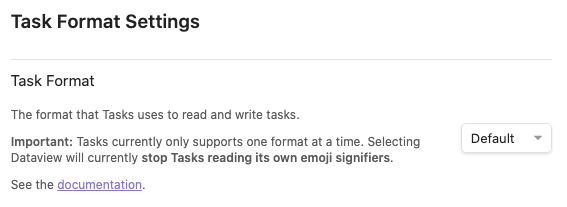
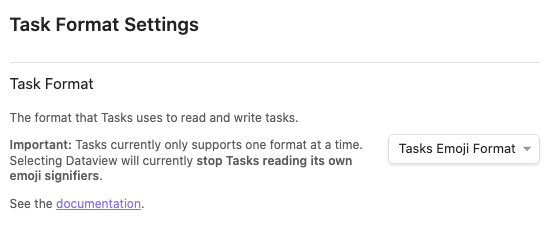
docs: Rename 'Default' format in settings to 'Tasks Emoji Format'

diff --git a/docs/Reference/Task Formats/About Task Formats.md b/docs/Reference/Task Formats/About Task Formats.md
@@ -17,7 +17,7 @@ You can now chose the format that Tasks will use to read and write data on task 
 
 ## Supported formats
 
-- [[Tasks Emoji Format]] - the Default format
+- [[Tasks Emoji Format]] - the default format
   - `⏫ 🔁 every day when done`
   - `🛫 2023-04-05 ⏳ 2023-04-06 📅 2023-04-07`
   - `➕ 2023-04-03 ✅ 2023-04-08`
